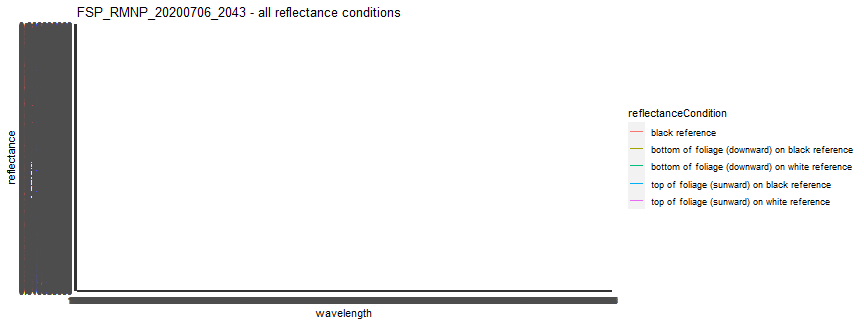
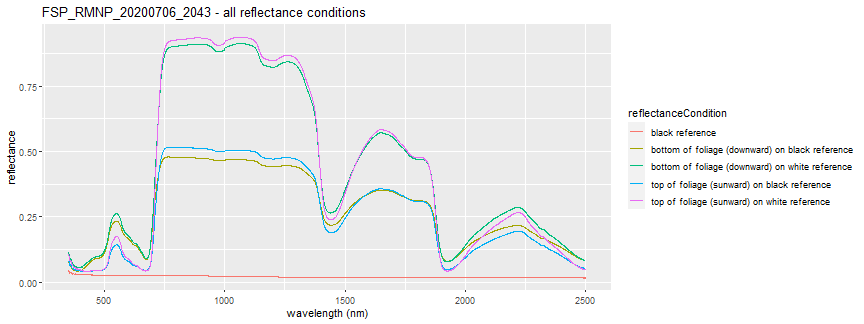
cast to numeric to fix plots

diff --git a/tutorials/R/AOP/Hyperspectral/Field-Spectra/explore_field_spectra.html b/tutorials/R/AOP/Hyperspectral/Field-Spectra/explore_field_spectra.html
@@ -189,16 +189,13 @@ head(spectra_merge[c(&quot;spectralSampleID&quot;,&quot;taxonID&quot;,&quot;scie
 <blockquote>
 <p>“Spectral reflectance of both the front and back of the sample is measured against a reflective white spectralon reference panel. A black spectralon reference is then measured, followed by spectral transmittance measurements of the front and back of the sample. Reference measurements of the white reference are taken between each leaf measurement.”</p>
 </blockquote>
-<p>When linking with NEON’s airborne spectral dataset (DP3.30006.001), the <code>top of foliage (sunward) on black reference</code> is what we want to use. For this lesson, we will just focus on this reflectance condition. Let’s take a look at the spectra for the single csv we read in:</p>
+<p>When linking with NEON’s airborne spectral dataset (DP3.30006.001), the <code>top of foliage (sunward) on black reference</code> is the condition that we want to use. For this lesson, we will just focus on this reflectance condition. Let’s take a look at the spectra for the single csv we read in. Note that you’ll need to cast the wavelength and reflectance data to “numeric” data type, using <code>as.numeric</code>.</p>
 <pre><code>refl_conditions_plot &lt;- ggplot(FSP_RMNP_20200706_2043,             
-               aes(x = wavelength, 
-                   y = reflectance, 
+               aes(x = as.numeric(wavelength), 
+                   y = as.numeric(reflectance), 
                    color = reflectanceCondition)) + geom_line() 
 
-print(refl_conditions_plot + ggtitle(&quot;FSP_RMNP_20200706_2043 - all reflectance conditions&quot;))
-
-## `geom_line()`: Each group consists of only one observation.
-## ℹ Do you need to adjust the group aesthetic?
+print(refl_conditions_plot + ggtitle(&quot;FSP_RMNP_20200706_2043 - all reflectance conditions&quot;) + xlab(&quot;wavelength (nm)&quot;) + ylab(&quot;reflectance&quot;))
 </code></pre>
 <div class="figure" style="text-align: center">
 <img src="https://raw.githubusercontent.com/NEONScience/NEON-Data-Skills/main/tutorials/R/AOP/Hyperspectral/Field-Spectra/rfigs/plot-reflectance-conditions-1.png" alt=" "  />
@@ -210,13 +207,10 @@ print(refl_conditions_plot + ggtitle(&quot;FSP_RMNP_20200706_2043 - all reflecta
 
 
 spectra_plot &lt;- ggplot(FSP_RMNP_20200706_2043_REFL,
-                       aes(x = wavelength, 
-                           y = reflectance)) + geom_line() 
+                       aes(x = as.numeric(wavelength), 
+                           y = as.numeric(reflectance))) + geom_line() 
 
-print(spectra_plot + ggtitle(&quot;FSP_RMNP_20200706_2043_REFL - Top of Foliage on Black Reference&quot;))
-
-## `geom_line()`: Each group consists of only one observation.
-## ℹ Do you need to adjust the group aesthetic?
+print(spectra_plot + ggtitle(&quot;FSP_RMNP_20200706_2043_REFL - Top of Foliage on Black Reference&quot;) + xlab(&quot;wavelength (nm)&quot;) + ylab(&quot;reflectance&quot;))
 </code></pre>
 <div class="figure" style="text-align: center">
 <img src="https://raw.githubusercontent.com/NEONScience/NEON-Data-Skills/main/tutorials/R/AOP/Hyperspectral/Field-Spectra/rfigs/plot-single-spectra-1.png" alt=" "  />
@@ -237,7 +231,9 @@ for (i in 1:nrow(spectra_merge)) {
 
 # get the wavelength values corresponding to the subset we selected for each of the spectra
 
-wavelengths &lt;- as.numeric(refl_data[which(refl_data$reflectanceCondition == &quot;top of foliage (sunward) on black reference&quot;), c(&quot;wavelength&quot;)])
+wavelengths &lt;- refl_data[which(refl_data$reflectanceCondition == &quot;top of foliage (sunward) on black reference&quot;), c(&quot;wavelength&quot;)]
+
+wavelengths &lt;- as.numeric(wavelengths)
 
 spectra_df &lt;- as.data.frame(do.call(cbind, spectra_list)) # make a new dataframe from the spectra_list
 

diff --git a/tutorials/R/AOP/Hyperspectral/Field-Spectra/explore_field_spectra.md b/tutorials/R/AOP/Hyperspectral/Field-Spectra/explore_field_spectra.md
@@ -149,19 +149,15 @@ This `reflectanceCondition` describes what exactly is being measured. As stated 
 
 > "Spectral reflectance of both the front and back of the sample is measured against a reflective white spectralon reference panel. A black spectralon reference is then measured, followed by spectral transmittance measurements of the front and back of the sample. Reference measurements of the white reference are taken between each leaf measurement."
 
-When linking with NEON's airborne spectral dataset (DP3.30006.001), the `top of foliage (sunward) on black reference` is what we want to use. For this lesson, we will just focus on this reflectance condition. Let's take a look at the spectra for the single csv we read in:
+When linking with NEON's airborne spectral dataset (DP3.30006.001), the `top of foliage (sunward) on black reference` is the condition that we want to use. For this lesson, we will just focus on this reflectance condition. Let's take a look at the spectra for the single csv we read in. Note that you'll need to cast the wavelength and reflectance data to "numeric" data type, using `as.numeric`.
 
 
     refl_conditions_plot <- ggplot(FSP_RMNP_20200706_2043,             
-                   aes(x = wavelength, 
-                       y = reflectance, 
+                   aes(x = as.numeric(wavelength), 
+                       y = as.numeric(reflectance), 
                        color = reflectanceCondition)) + geom_line() 
 
-    print(refl_conditions_plot + ggtitle("FSP_RMNP_20200706_2043 - all reflectance conditions"))
-
-    ## `geom_line()`: Each group consists of only one observation.
-    ## ℹ Do you need to adjust the group aesthetic?
-
+    print(refl_conditions_plot + ggtitle("FSP_RMNP_20200706_2043 - all reflectance conditions") + xlab("wavelength (nm)") + ylab("reflectance"))
 
 <div class="figure" style="text-align: center">
 <img src="https://raw.githubusercontent.com/NEONScience/NEON-Data-Skills/main/tutorials/R/AOP/Hyperspectral/Field-Spectra/rfigs/plot-reflectance-conditions-1.png" alt=" "  />
@@ -176,14 +172,10 @@ And then subset just to the top of foliage on black reference, to plot the refle
     
 
     spectra_plot <- ggplot(FSP_RMNP_20200706_2043_REFL,
-                           aes(x = wavelength, 
-                               y = reflectance)) + geom_line() 
+                           aes(x = as.numeric(wavelength), 
+                               y = as.numeric(reflectance))) + geom_line() 
 
-    print(spectra_plot + ggtitle("FSP_RMNP_20200706_2043_REFL - Top of Foliage on Black Reference"))
-
-    ## `geom_line()`: Each group consists of only one observation.
-    ## ℹ Do you need to adjust the group aesthetic?
-
+    print(spectra_plot + ggtitle("FSP_RMNP_20200706_2043_REFL - Top of Foliage on Black Reference") + xlab("wavelength (nm)") + ylab("reflectance"))
 
 <div class="figure" style="text-align: center">
 <img src="https://raw.githubusercontent.com/NEONScience/NEON-Data-Skills/main/tutorials/R/AOP/Hyperspectral/Field-Spectra/rfigs/plot-single-spectra-1.png" alt=" "  />
@@ -191,6 +183,7 @@ And then subset just to the top of foliage on black reference, to plot the refle
 </div>
 
 So ... how can we read the spectral data in for all of the samples collected at RMNP? The code chunk below loops through all the spectral samples and creates a new data frame comprised of the taxonID + date of the fspID, and the reflectance values only of the top of the leaf on the black reference. 
+
 
     spectra_list <- list()
 
@@ -206,7 +199,9 @@ So ... how can we read the spectral data in for all of the samples collected at 
 
     # get the wavelength values corresponding to the subset we selected for each of the spectra
 
-    wavelengths <- as.numeric(refl_data[which(refl_data$reflectanceCondition == "top of foliage (sunward) on black reference"), c("wavelength")])
+    wavelengths <- refl_data[which(refl_data$reflectanceCondition == "top of foliage (sunward) on black reference"), c("wavelength")]
+
+    wavelengths <- as.numeric(wavelengths)
 
     spectra_df <- as.data.frame(do.call(cbind, spectra_list)) # make a new dataframe from the spectra_list
 
